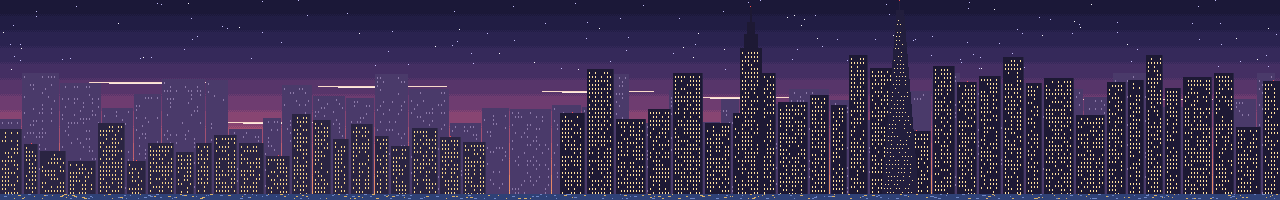
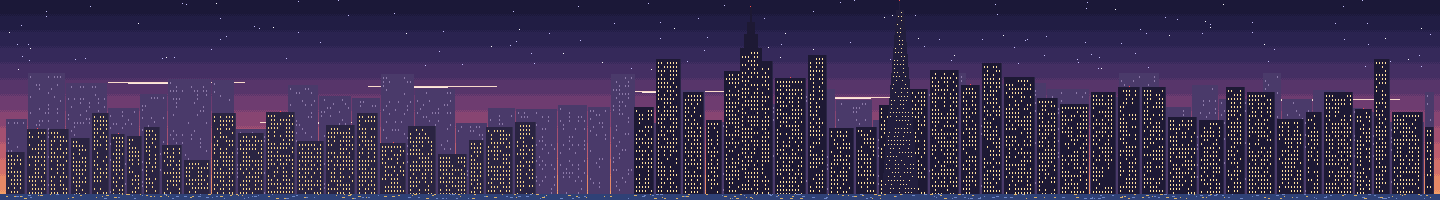
fix(city): skyline pans with the map and fills the canvas seamlessly
With a 0.3 parallax the islands slid over a near-fixed skyline that was
narrower than the map, so panning exposed its hard edges. The backdrop is
now anchored to the map, regenerated at the map's width (1440px), keeps
6px of plain sky at each side, and those edge columns are stretched to
the canvas edges; the sky fill matches the image's top band.

Changed region(s): [[0.0, 0.15, 1.0, 1.0], [0.25, 0.42, 0.3125, 0.45]]

diff --git a/webview-ui/src/office/engine/renderer.ts b/webview-ui/src/office/engine/renderer.ts
@@ -16,7 +16,6 @@ import {
   AREA_SIGN_PAD_Y_PX,
   AREA_SIGN_SHADOW_COLOR,
   AREA_SIGN_TEXT_COLOR,
-  BACKDROP_PARALLAX,
   BACKDROP_SKY_COLOR,
   BACKDROP_WATER_COLOR,
   BUBBLE_FADE_DURATION_SEC,
@@ -930,7 +929,13 @@ export interface BackdropRenderState {
   areaKinds: Array<AreaKind | null>;
 }
 
-/** Water fill + skyline image, drawn before the tile grid. */
+/**
+ * Water fill + skyline image, drawn before the tile grid. The image is
+ * anchored to the map (it pans and zooms with the islands), centred on the
+ * map's width; its first and last pixel columns, which hold only the sky
+ * gradient and waterline, are stretched out to the canvas edges so the sky
+ * continues seamlessly past the image at any pan.
+ */
 function renderBackdrop(
   ctx: CanvasRenderingContext2D,
   canvasWidth: number,
@@ -941,22 +946,24 @@ function renderBackdrop(
   zoom: number,
   cols: number,
 ): void {
-  const horizonY = offsetY + backdrop.horizonRow * TILE_SIZE * zoom;
+  const horizonY = Math.round(offsetY + backdrop.horizonRow * TILE_SIZE * zoom);
   ctx.fillStyle = BACKDROP_SKY_COLOR;
   ctx.fillRect(0, 0, canvasWidth, Math.max(0, horizonY));
   ctx.fillStyle = BACKDROP_WATER_COLOR;
   ctx.fillRect(0, Math.max(0, horizonY), canvasWidth, canvasHeight);
   const img = backdrop.image;
-  if (!img) return;
+  if (!img || img.naturalWidth === 0) return;
   const w = img.naturalWidth * zoom;
   const h = img.naturalHeight * zoom;
-  const mapCenterX = offsetX + (cols * TILE_SIZE * zoom) / 2;
-  const x = Math.round(
-    canvasWidth / 2 + (mapCenterX - canvasWidth / 2) * BACKDROP_PARALLAX - w / 2,
-  );
+  const x = Math.round(offsetX + (cols * TILE_SIZE * zoom - w) / 2);
+  const y = horizonY - h;
+  const ih = img.naturalHeight;
   const prevSmoothing = ctx.imageSmoothingEnabled;
   ctx.imageSmoothingEnabled = false;
-  ctx.drawImage(img, x, Math.round(horizonY - h), w, h);
+  if (x > 0) ctx.drawImage(img, 0, 0, 1, ih, 0, y, x, h);
+  if (x + w < canvasWidth)
+    ctx.drawImage(img, img.naturalWidth - 1, 0, 1, ih, x + w, y, canvasWidth - (x + w), h);
+  ctx.drawImage(img, x, y, w, h);
   ctx.imageSmoothingEnabled = prevSmoothing;
 }
 

diff --git a/webview-ui/src/constants.ts b/webview-ui/src/constants.ts
@@ -346,6 +346,4 @@ export const ISLAND_SHADOW_PX = 4;
 /** Water fill behind a layout that names a backdrop. */
 export const BACKDROP_WATER_COLOR = '#2f4176';
 /** Sky fill above the backdrop image. */
-export const BACKDROP_SKY_COLOR = '#232046';
-/** Horizontal parallax factor of the skyline (0 = fixed to screen, 1 = fixed to map). */
-export const BACKDROP_PARALLAX = 0.3;
+export const BACKDROP_SKY_COLOR = '#1b1838';

diff --git a/docs/superpowers/specs/2026-10-04-hudson-hex-city-design.md b/docs/superpowers/specs/2026-10-04-hudson-hex-city-design.md
@@ -64,7 +64,7 @@ All of these are webview-only. The protocol (`core/asyncapi.yaml`) and the serve
 
 1. **Area kind.** Add `kind?: 'work' | 'leisure' | 'bikeLane' | 'ferry'` to `AreaDefinition` (optional, backward compatible; layouts without it behave exactly as today). The Areas editor gets a kind picker.
 2. **Leisure-biased wandering.** In `characters.ts`, the wander target comes from a pure function `pickWanderTarget(walkable, leisureTiles, rng)` instead of the inline random pick.
-3. **Backdrop layer.** The renderer draws a backdrop image before the tiles, anchored to the world with a parallax factor (sky and skyline 0.3, water 1.0). The layout names it with an optional `backdrop?: string`. The image is a bundled webview asset loaded through Vite (`new URL(..., import.meta.url)`). That works under the merged CSP (`img-src` = `cspSource` / `'self'`) without a new message type. The engine only draws it to the canvas, never reads its pixels, so the cross-origin restriction on reading VS Code resource images doesn't matter.
+3. **Backdrop layer.** The renderer draws a backdrop image before the tiles, anchored to the map with no parallax, so it pans and zooms with the islands; its edge columns (sky gradient only) are stretched to the canvas edges so the sky reads as one seamless surface. (A 0.3 skyline parallax shipped first and was dropped: when panning, the islands slid over a near-fixed picture with visible edges.) The layout names it with an optional `backdrop?: string`. The image is a bundled webview asset loaded through Vite (`new URL(..., import.meta.url)`). That works under the merged CSP (`img-src` = `cspSource` / `'self'`) without a new message type. The engine only draws it to the canvas, never reads its pixels, so the cross-origin restriction on reading VS Code resource images doesn't matter.
 4. **Island sides.** For every non-VOID tile whose south neighbour is VOID, draw a side face below it: a darker shade of the tile colour (`ISLAND_SIDE_PX` = 8), plus a faint shadow on the water. This is a pure render pass with no new tile type.
 5. **Bigger grid.** Raise `MAX_COLS` / `MAX_ROWS` from 64 to 96. Check frame time on the 72 × 40 map (target: no frame over 16 ms on a mid-range laptop at default zoom).
 6. **Travel modes.** A pure `travelModeAt(col, row, areaKinds)` returns `walk`, `bike` or `boat`. The character FSM multiplies walk speed by the mode's multiplier. The renderer draws the bike overlay (under the body, legs hidden) or the boat hull (around the seated body) for that mode. Sub-agents use it too.
